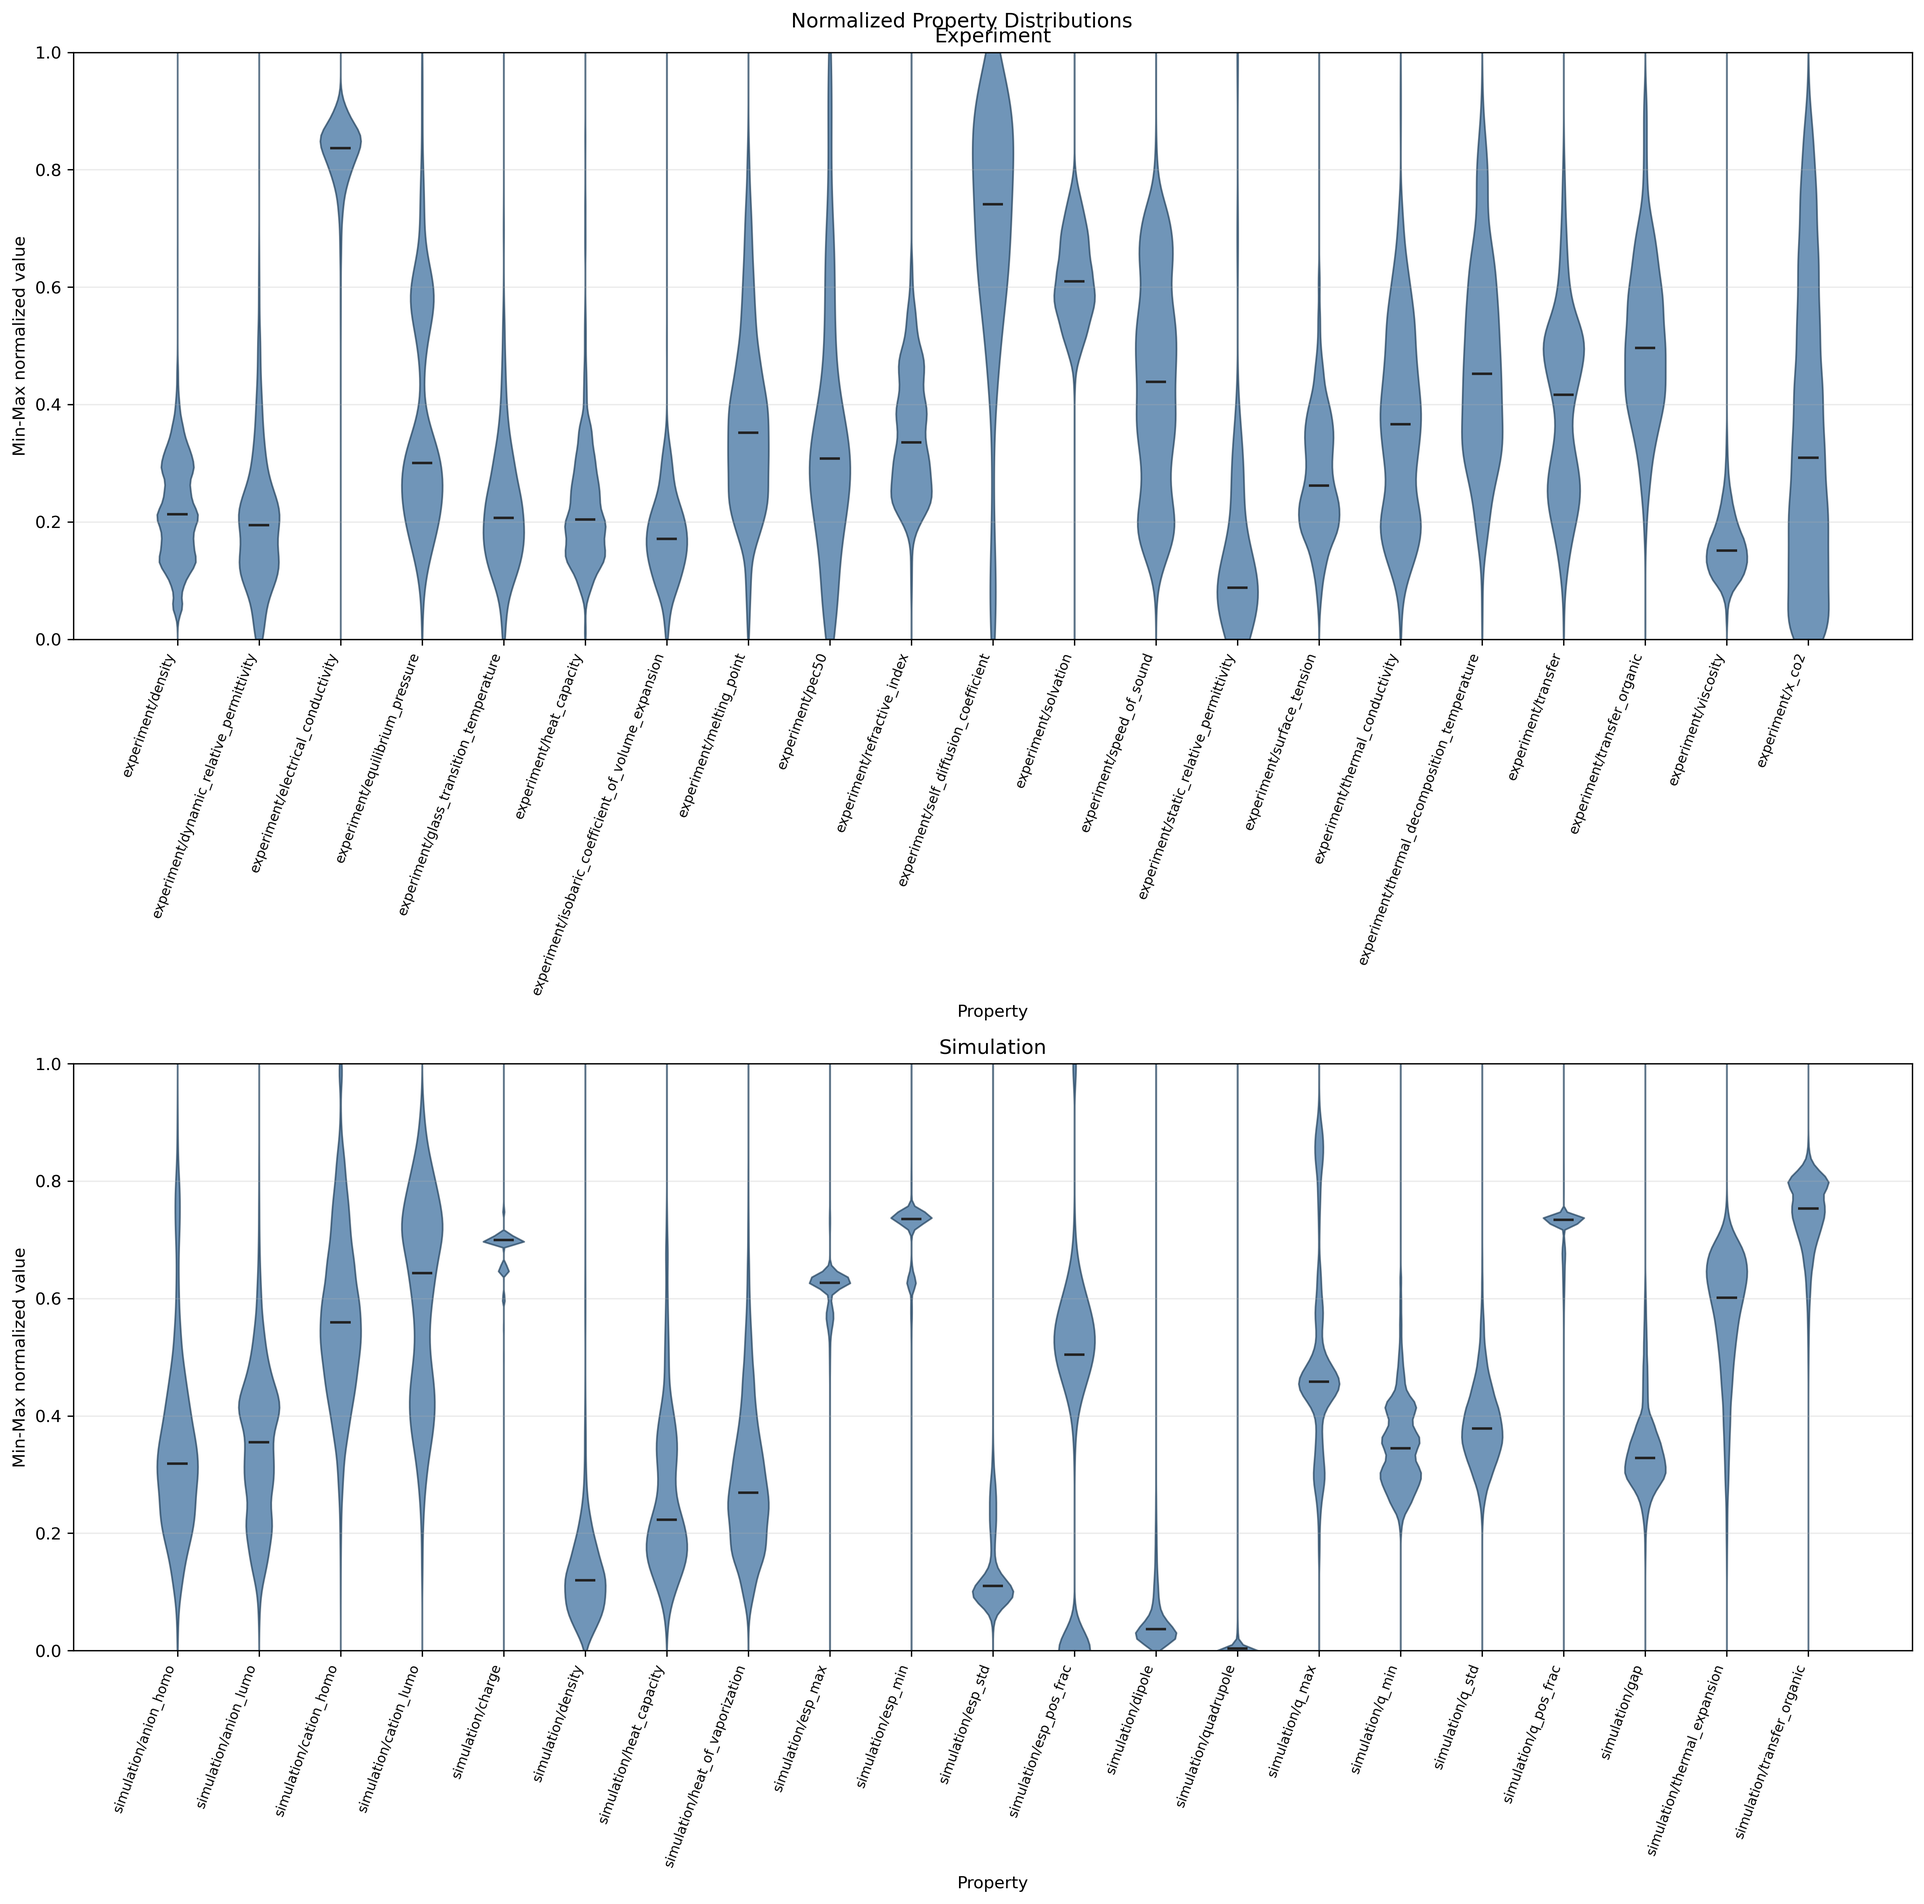
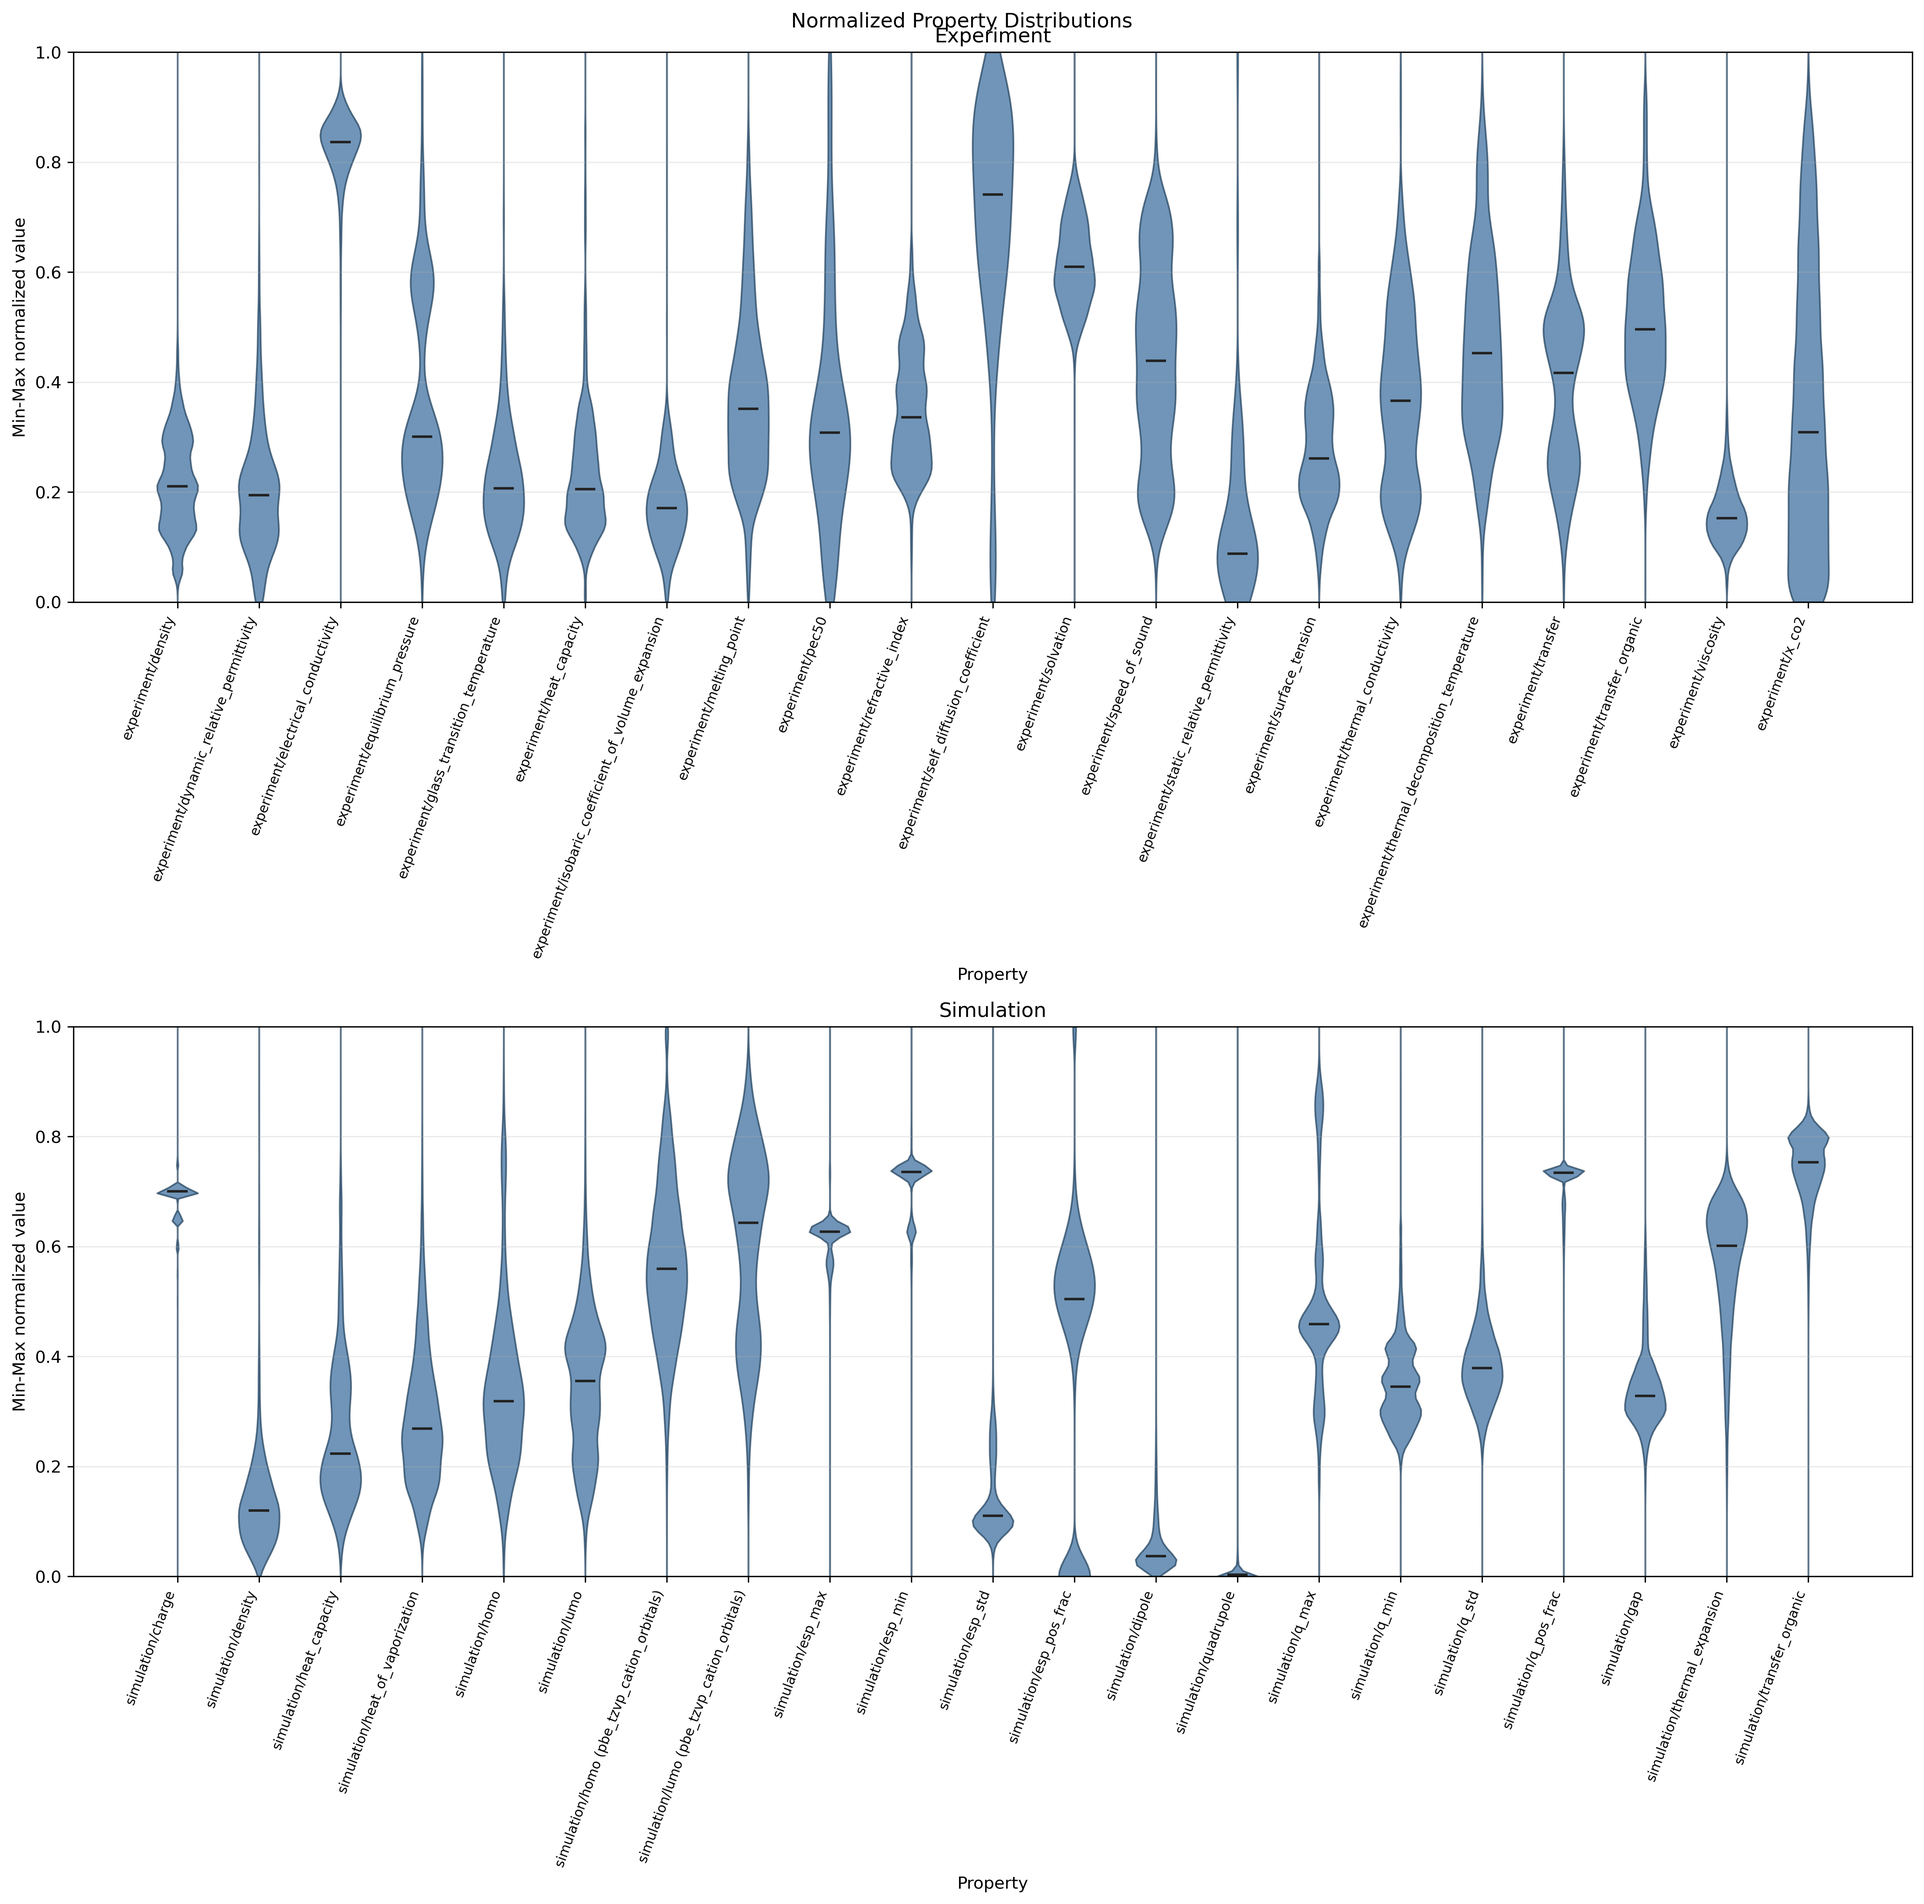
Update analysis figures and manifest with new data; adjust property analysis report and summary (#7)
- Updated binary figures for condition availability and coverage.
- Modified plot manifest with corrected data points for coverage figures.
- Revised property analysis report to reflect updated total data points and adjusted values for density and viscosity.
- Updated property analysis summary with new data for density and electrical conductivity.

diff --git a/analysis/property_analysis_report.md b/analysis/property_analysis_report.md
@@ -3,7 +3,7 @@
 ## Global Summary
 
 - Analyzed properties: 42
-- Total data points across analyzed properties: 1689668
+- Total data points across analyzed properties: 1683144
 - Sum of property-level unique systems: 1439232
 - Properties recommended for system holdout test: 35
 - Properties recommended for grouped CV: 7
@@ -14,8 +14,8 @@
 | bucket | property | data_points | unique_systems | recommended_split |
 | --- | --- | --- | --- | --- |
 | simulation | transfer_organic | 1000000 | 1000000 | system_holdout_test |
-| experiment | density | 94246 | 5966 | system_holdout_test |
-| experiment | viscosity | 44514 | 2586 | system_holdout_test |
+| experiment | density | 100579 | 5966 | system_holdout_test |
+| experiment | viscosity | 39941 | 2586 | system_holdout_test |
 | simulation | charge | 28203 | 28203 | system_holdout_test |
 | simulation | dipole | 27258 | 27258 | system_holdout_test |
 | simulation | q_max | 27258 | 27258 | system_holdout_test |
@@ -39,11 +39,11 @@ These properties should not be split by random rows because repeated systems can
 | experiment | equilibrium_pressure | 95 | 0.9894736842105263 | 151 |
 | experiment | speed_of_sound | 216 | 0.9861111111111112 | 252 |
 | experiment | thermal_conductivity | 93 | 0.978494623655914 | 95 |
-| experiment | heat_capacity | 352 | 0.9573863636363636 | 3096 |
+| experiment | density | 5966 | 0.9446865571572243 | 2509 |
+| experiment | heat_capacity | 352 | 0.875 | 1757 |
 | experiment | surface_tension | 1141 | 0.845749342681858 | 180 |
-| experiment | electrical_conductivity | 703 | 0.8036984352773826 | 319 |
 | experiment | refractive_index | 726 | 0.803030303030303 | 237 |
-| experiment | density | 5966 | 0.7955078779751927 | 2544 |
+| experiment | electrical_conductivity | 703 | 0.7510668563300142 | 304 |
 
 ## System Holdout Test Candidates
 
